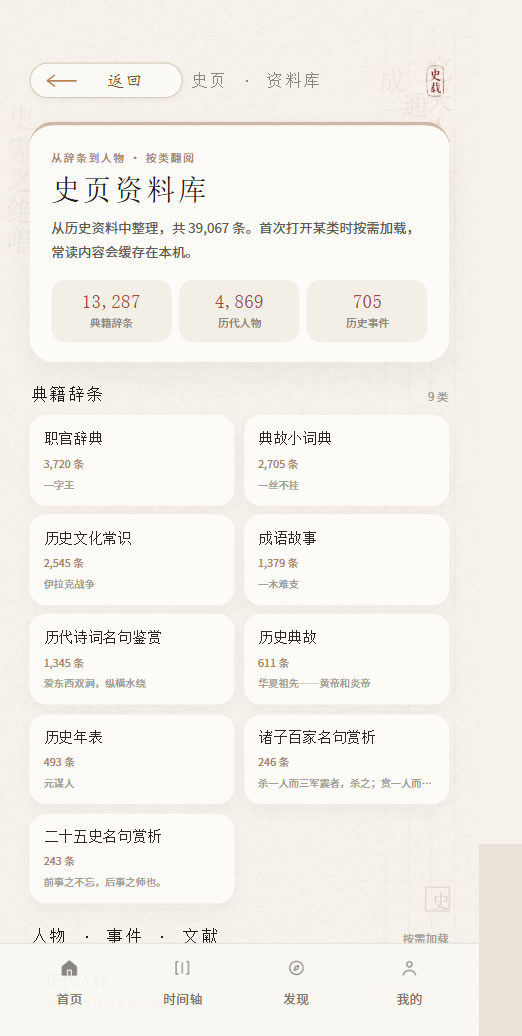
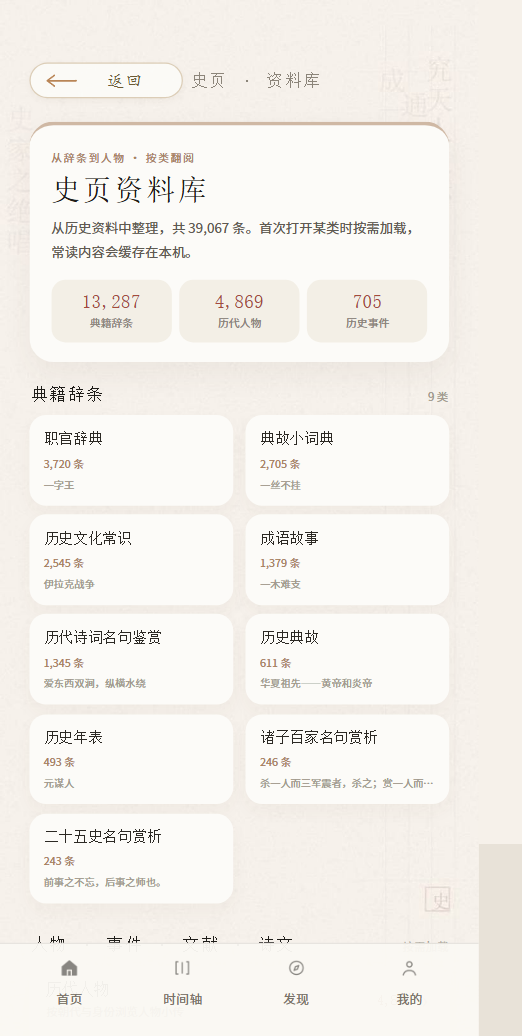
fix: 修复资料库首页分类单列与顶栏印章遮挡

diff --git a/ui/preview/_bundle.js b/ui/preview/_bundle.js
@@ -5242,8 +5242,8 @@ Page('project://pages/archive/archive.js', {
 });
 
 });
-__register('/pages/archive/archive.wxml', function (require, module, exports) { module.exports = "<view class=\"page fs-{{fontClass}}\">\n  <image class=\"paper-bg\" src=\"/assets/paper-bg.jpg\" mode=\"aspectFill\"></image>\n  <view class=\"screen\">\n    <view class=\"topbar\">\n      <view class=\"back\" bindtap=\"goBack\">\n        <image class=\"back-arrow\" src=\"/assets/back-arrow.png\" mode=\"widthFix\"></image>\n        <text class=\"back-label\">返回</text>\n      </view>\n      <text class=\"top-title\">史页 · 资料库</text>\n      <image class=\"top-seal\" src=\"/assets/seal.png\" mode=\"aspectFit\"></image>\n    </view>\n\n    <view class=\"hero\">\n      <text class=\"hero-kicker\">从辞条到人物 · 按类翻阅</text>\n      <text class=\"hero-title\">史页资料库</text>\n      <text class=\"hero-desc\">从历史资料中整理，共 {{stats.totalText}} 条。首次打开某类时按需加载，常读内容会缓存在本机。</text>\n      <view class=\"hero-stats\">\n        <view class=\"hstat\">\n          <text class=\"hnum\">{{stats.cardsText}}</text>\n          <text class=\"hlab\">典籍辞条</text>\n        </view>\n        <view class=\"hstat\">\n          <text class=\"hnum\">{{stats.figuresText}}</text>\n          <text class=\"hlab\">历代人物</text>\n        </view>\n        <view class=\"hstat\">\n          <text class=\"hnum\">{{stats.eventsText}}</text>\n          <text class=\"hlab\">历史事件</text>\n        </view>\n      </view>\n    </view>\n\n    <view class=\"section-head\">\n      <text class=\"section-title\">典籍辞条</text>\n      <text class=\"section-link\">{{stats.categories}} 类</text>\n    </view>\n    <view class=\"cat-grid\">\n      <view\n        wx:for=\"{{categories}}\"\n        wx:key=\"key\"\n        class=\"cat-card\"\n        data-key=\"{{item.key}}\"\n        data-name=\"{{item.name}}\"\n        bindtap=\"onCategory\"\n      >\n        <text class=\"cat-name\">{{item.name}}</text>\n        <text class=\"cat-count\">{{item.countText}} 条</text>\n        <text class=\"cat-sample\">{{item.sample}}</text>\n      </view>\n    </view>\n\n    <view class=\"section-head\">\n      <text class=\"section-title\">人物 · 事件 · 文献</text>\n      <text class=\"section-link\">按需加载</text>\n    </view>\n    <view class=\"sec-list\">\n      <view\n        wx:for=\"{{sections}}\"\n        wx:key=\"key\"\n        class=\"sec-row\"\n        data-key=\"{{item.key}}\"\n        data-name=\"{{item.name}}\"\n        bindtap=\"onSection\"\n      >\n        <view class=\"sec-main\">\n          <text class=\"sec-name\">{{item.name}}</text>\n          <text class=\"sec-desc\">{{item.desc}}</text>\n        </view>\n        <text class=\"sec-count\">{{item.countText}}</text>\n        <text class=\"sec-arrow\">›</text>\n      </view>\n    </view>\n\n    <view class=\"note\">资料为原型整理内容，仅作阅读与内容迁移；正式发布前请逐条核对史实与授权。</view>\n  </view>\n</view>\n"; });
-__register('/pages/archive/archive.wxss', function (require, module, exports) { module.exports = ".page {\n  position: relative;\n  min-height: 100vh;\n  overflow: hidden;\n  background: #F6F1EA;\n}\n\n.paper-bg {\n  position: fixed;\n  left: 0;\n  top: 0;\n  z-index: 0;\n  width: 100%;\n  height: 100%;\n  opacity: 0.96;\n}\n\n.screen {\n  position: relative;\n  z-index: 2;\n  padding: 0 46rpx 120rpx;\n}\n\n.topbar {\n  position: relative;\n  margin-top: 88rpx;\n  height: 76rpx;\n  display: flex;\n  align-items: center;\n  justify-content: space-between;\n}\n\n.back {\n  position: relative;\n  width: 240rpx;\n  height: 56rpx;\n  border-radius: 28rpx;\n  border: 1rpx solid rgba(176, 142, 96, 0.42);\n  background: rgba(252, 251, 248, 0.86);\n  box-shadow: 0 4rpx 12rpx rgba(90, 70, 50, 0.05);\n  overflow: hidden;\n}\n\n.back-arrow {\n  position: absolute;\n  left: 20rpx;\n  top: 50%;\n  width: 56rpx;\n  height: auto;\n  display: block;\n  transform: translateY(-50%);\n}\n\n.back-label {\n  position: absolute;\n  left: 76rpx;\n  right: 18rpx;\n  top: 0;\n  height: 56rpx;\n  line-height: 56rpx;\n  text-align: center;\n  font-family: \"KaiTi\", \"STKaiti\", \"Songti SC\", serif;\n  font-size: 26rpx;\n  letter-spacing: 0.1em;\n  text-indent: 0.1em;\n  color: #6B5A33;\n}\n\n.top-title {\n  position: absolute;\n  left: 54%;\n  transform: translateX(-50%);\n  font-family: \"Songti SC\", \"STSong\", \"SimSun\", serif;\n  font-size: calc(26rpx * var(--fs, 1));\n  letter-spacing: 0.08em;\n  color: #8C857A;\n}\n\n.top-seal {\n  width: 44rpx;\n  height: 50rpx;\n  display: block;\n}\n\n.hero {\n  position: relative;\n  margin-top: 26rpx;\n  padding: 38rpx 34rpx 32rpx;\n  border-radius: 38rpx;\n  background: #FCFBF8;\n  border-top: 6rpx solid rgba(169, 130, 94, 0.55);\n  box-shadow: 0 20rpx 46rpx rgba(90, 70, 50, 0.06);\n}\n\n.hero-kicker {\n  display: block;\n  font-size: calc(17rpx * var(--fs, 1));\n  letter-spacing: 0.14em;\n  color: #A9825E;\n}\n\n.hero-title {\n  display: block;\n  margin-top: 12rpx;\n  font-family: \"Songti SC\", \"STSong\", \"SimSun\", serif;\n  font-size: calc(46rpx * var(--fs, 1));\n  letter-spacing: 0.08em;\n  color: #1F1D19;\n}\n\n.hero-desc {\n  display: block;\n  margin-top: 16rpx;\n  font-size: calc(21rpx * var(--fs, 1));\n  line-height: 1.75;\n  color: #5F5A52;\n}\n\n.hero-stats {\n  display: flex;\n  gap: 12rpx;\n  margin-top: 26rpx;\n}\n\n.hstat {\n  flex: 1;\n  min-width: 0;\n  padding: 18rpx 12rpx;\n  border-radius: 22rpx;\n  background: #F3EFE6;\n  text-align: center;\n}\n\n.hnum {\n  display: block;\n  font-family: \"Songti SC\", \"STSong\", \"SimSun\", serif;\n  font-size: calc(30rpx * var(--fs, 1));\n  color: #A34A3E;\n}\n\n.hlab {\n  display: block;\n  margin-top: 4rpx;\n  font-size: calc(17rpx * var(--fs, 1));\n  color: #8C857A;\n}\n\n.section-head {\n  display: flex;\n  align-items: baseline;\n  justify-content: space-between;\n  margin: 36rpx 2rpx 16rpx;\n}\n\n.section-title {\n  font-family: \"Songti SC\", \"STSong\", \"SimSun\", serif;\n  font-size: calc(27rpx * var(--fs, 1));\n  letter-spacing: 0.08em;\n  color: #1F1D19;\n}\n\n.section-link {\n  font-size: calc(18rpx * var(--fs, 1));\n  color: #A39A8E;\n}\n\n.cat-grid {\n  display: flex;\n  flex-wrap: wrap;\n  gap: 14rpx;\n}\n\n.cat-card {\n  width: calc(50% - 7rpx);\n  min-height: 142rpx;\n  padding: 22rpx 22rpx 20rpx;\n  border-radius: 26rpx;\n  background: #FCFBF8;\n  box-shadow: 0 12rpx 26rpx rgba(90, 70, 50, 0.04);\n  overflow: hidden;\n}\n\n.cat-name {\n  display: block;\n  font-family: \"Songti SC\", \"STSong\", \"SimSun\", serif;\n  font-size: calc(24rpx * var(--fs, 1));\n  line-height: 1.35;\n  color: #2C2924;\n}\n\n.cat-count {\n  display: block;\n  margin-top: 8rpx;\n  font-size: calc(17rpx * var(--fs, 1));\n  color: #A9825E;\n}\n\n.cat-sample {\n  display: block;\n  margin-top: 8rpx;\n  font-size: calc(16rpx * var(--fs, 1));\n  line-height: 1.45;\n  color: #A39A8E;\n  white-space: nowrap;\n  overflow: hidden;\n  text-overflow: ellipsis;\n}\n\n.sec-list {\n  border-radius: 30rpx;\n  background: #FCFBF8;\n  box-shadow: 0 16rpx 34rpx rgba(90, 70, 50, 0.04);\n  overflow: hidden;\n}\n\n.sec-row {\n  display: flex;\n  align-items: center;\n  gap: 16rpx;\n  padding: 24rpx 26rpx;\n  border-bottom: 1rpx solid rgba(70, 58, 45, 0.07);\n}\n\n.sec-row:last-child {\n  border-bottom: none;\n}\n\n.sec-main {\n  flex: 1;\n  min-width: 0;\n}\n\n.sec-name {\n  display: block;\n  font-family: \"Songti SC\", \"STSong\", \"SimSun\", serif;\n  font-size: calc(25rpx * var(--fs, 1));\n  color: #1F1D19;\n}\n\n.sec-desc {\n  display: block;\n  margin-top: 5rpx;\n  font-size: calc(18rpx * var(--fs, 1));\n  line-height: 1.5;\n  color: #8C857A;\n}\n\n.sec-count {\n  font-family: \"Songti SC\", \"STSong\", \"SimSun\", serif;\n  font-size: calc(22rpx * var(--fs, 1));\n  color: #A9825E;\n}\n\n.sec-arrow {\n  font-family: \"Songti SC\", \"STSong\", \"SimSun\", serif;\n  font-size: 32rpx;\n  color: #C0B6A8;\n}\n\n.note {\n  margin-top: 32rpx;\n  padding: 22rpx 24rpx;\n  border-radius: 22rpx;\n  background: rgba(243, 239, 230, 0.7);\n  font-size: calc(17rpx * var(--fs, 1));\n  line-height: 1.7;\n  color: #A39A8E;\n}\n"; });
+__register('/pages/archive/archive.wxml', function (require, module, exports) { module.exports = "<view class=\"page fs-{{fontClass}}\">\n  <image class=\"paper-bg\" src=\"/assets/paper-bg.jpg\" mode=\"aspectFill\"></image>\n  <view class=\"screen\">\n    <view class=\"topbar\">\n      <view class=\"back\" bindtap=\"goBack\">\n        <image class=\"back-arrow\" src=\"/assets/back-arrow.png\" mode=\"widthFix\"></image>\n        <text class=\"back-label\">返回</text>\n      </view>\n      <text class=\"top-title\">史页 · 资料库</text>\n    </view>\n\n    <view class=\"hero\">\n      <text class=\"hero-kicker\">从辞条到人物 · 按类翻阅</text>\n      <text class=\"hero-title\">史页资料库</text>\n      <text class=\"hero-desc\">从历史资料中整理，共 {{stats.totalText}} 条。首次打开某类时按需加载，常读内容会缓存在本机。</text>\n      <view class=\"hero-stats\">\n        <view class=\"hstat\">\n          <text class=\"hnum\">{{stats.cardsText}}</text>\n          <text class=\"hlab\">典籍辞条</text>\n        </view>\n        <view class=\"hstat\">\n          <text class=\"hnum\">{{stats.figuresText}}</text>\n          <text class=\"hlab\">历代人物</text>\n        </view>\n        <view class=\"hstat\">\n          <text class=\"hnum\">{{stats.eventsText}}</text>\n          <text class=\"hlab\">历史事件</text>\n        </view>\n      </view>\n    </view>\n\n    <view class=\"section-head\">\n      <text class=\"section-title\">典籍辞条</text>\n      <text class=\"section-link\">{{stats.categories}} 类</text>\n    </view>\n    <view class=\"cat-grid\">\n      <view\n        wx:for=\"{{categories}}\"\n        wx:key=\"key\"\n        class=\"cat-card\"\n        data-key=\"{{item.key}}\"\n        data-name=\"{{item.name}}\"\n        bindtap=\"onCategory\"\n      >\n        <text class=\"cat-name\">{{item.name}}</text>\n        <text class=\"cat-count\">{{item.countText}} 条</text>\n        <text class=\"cat-sample\">{{item.sample}}</text>\n      </view>\n    </view>\n\n    <view class=\"section-head\">\n      <text class=\"section-title\">人物 · 事件 · 文献 · 诗文</text>\n      <text class=\"section-link\">按需加载</text>\n    </view>\n    <view class=\"sec-list\">\n      <view\n        wx:for=\"{{sections}}\"\n        wx:key=\"key\"\n        class=\"sec-row\"\n        data-key=\"{{item.key}}\"\n        data-name=\"{{item.name}}\"\n        bindtap=\"onSection\"\n      >\n        <view class=\"sec-main\">\n          <text class=\"sec-name\">{{item.name}}</text>\n          <text class=\"sec-desc\">{{item.desc}}</text>\n        </view>\n        <text class=\"sec-count\">{{item.countText}}</text>\n        <text class=\"sec-arrow\">›</text>\n      </view>\n    </view>\n\n    <view class=\"note\">资料为原型整理内容，仅作阅读与内容迁移；正式发布前请逐条核对史实与授权。</view>\n  </view>\n</view>\n"; });
+__register('/pages/archive/archive.wxss', function (require, module, exports) { module.exports = ".page {\n  position: relative;\n  min-height: 100vh;\n  overflow: hidden;\n  background: #F6F1EA;\n}\n\n.paper-bg {\n  position: fixed;\n  left: 0;\n  top: 0;\n  z-index: 0;\n  width: 100%;\n  height: 100%;\n  opacity: 0.96;\n}\n\n.screen {\n  position: relative;\n  z-index: 2;\n  padding: 0 46rpx 120rpx;\n}\n\n.topbar {\n  position: relative;\n  margin-top: 88rpx;\n  height: 76rpx;\n  display: flex;\n  align-items: center;\n  justify-content: space-between;\n}\n\n.back {\n  position: relative;\n  width: 240rpx;\n  height: 56rpx;\n  border-radius: 28rpx;\n  border: 1rpx solid rgba(176, 142, 96, 0.42);\n  background: rgba(252, 251, 248, 0.86);\n  box-shadow: 0 4rpx 12rpx rgba(90, 70, 50, 0.05);\n  overflow: hidden;\n}\n\n.back-arrow {\n  position: absolute;\n  left: 20rpx;\n  top: 50%;\n  width: 56rpx;\n  height: auto;\n  display: block;\n  transform: translateY(-50%);\n}\n\n.back-label {\n  position: absolute;\n  left: 76rpx;\n  right: 18rpx;\n  top: 0;\n  height: 56rpx;\n  line-height: 56rpx;\n  text-align: center;\n  font-family: \"KaiTi\", \"STKaiti\", \"Songti SC\", serif;\n  font-size: 26rpx;\n  letter-spacing: 0.1em;\n  text-indent: 0.1em;\n  color: #6B5A33;\n}\n\n.top-title {\n  position: absolute;\n  left: 54%;\n  transform: translateX(-50%);\n  font-family: \"Songti SC\", \"STSong\", \"SimSun\", serif;\n  font-size: calc(26rpx * var(--fs, 1));\n  letter-spacing: 0.08em;\n  color: #8C857A;\n}\n\n.hero {\n  position: relative;\n  margin-top: 26rpx;\n  padding: 38rpx 34rpx 32rpx;\n  border-radius: 38rpx;\n  background: #FCFBF8;\n  border-top: 6rpx solid rgba(169, 130, 94, 0.55);\n  box-shadow: 0 20rpx 46rpx rgba(90, 70, 50, 0.06);\n}\n\n.hero-kicker {\n  display: block;\n  font-size: calc(17rpx * var(--fs, 1));\n  letter-spacing: 0.14em;\n  color: #A9825E;\n}\n\n.hero-title {\n  display: block;\n  margin-top: 12rpx;\n  font-family: \"Songti SC\", \"STSong\", \"SimSun\", serif;\n  font-size: calc(46rpx * var(--fs, 1));\n  letter-spacing: 0.08em;\n  color: #1F1D19;\n}\n\n.hero-desc {\n  display: block;\n  margin-top: 16rpx;\n  font-size: calc(21rpx * var(--fs, 1));\n  line-height: 1.75;\n  color: #5F5A52;\n}\n\n.hero-stats {\n  display: flex;\n  gap: 12rpx;\n  margin-top: 26rpx;\n}\n\n.hstat {\n  flex: 1;\n  min-width: 0;\n  padding: 18rpx 12rpx;\n  border-radius: 22rpx;\n  background: #F3EFE6;\n  text-align: center;\n}\n\n.hnum {\n  display: block;\n  font-family: \"Songti SC\", \"STSong\", \"SimSun\", serif;\n  font-size: calc(30rpx * var(--fs, 1));\n  color: #A34A3E;\n}\n\n.hlab {\n  display: block;\n  margin-top: 4rpx;\n  font-size: calc(17rpx * var(--fs, 1));\n  color: #8C857A;\n}\n\n.section-head {\n  display: flex;\n  align-items: baseline;\n  justify-content: space-between;\n  margin: 36rpx 2rpx 16rpx;\n}\n\n.section-title {\n  font-family: \"Songti SC\", \"STSong\", \"SimSun\", serif;\n  font-size: calc(27rpx * var(--fs, 1));\n  letter-spacing: 0.08em;\n  color: #1F1D19;\n}\n\n.section-link {\n  font-size: calc(18rpx * var(--fs, 1));\n  color: #A39A8E;\n}\n\n.cat-grid {\n  display: flex;\n  flex-wrap: wrap;\n  justify-content: space-between;\n}\n\n.cat-card {\n  width: 48.5%;\n  min-height: 142rpx;\n  margin-bottom: 14rpx;\n  padding: 22rpx 22rpx 20rpx;\n  box-sizing: border-box;\n  border-radius: 26rpx;\n  background: #FCFBF8;\n  box-shadow: 0 12rpx 26rpx rgba(90, 70, 50, 0.04);\n  overflow: hidden;\n}\n\n.cat-card:active {\n  background: #F7F3EC;\n}\n\n.cat-name {\n  display: block;\n  font-family: \"Songti SC\", \"STSong\", \"SimSun\", serif;\n  font-size: calc(24rpx * var(--fs, 1));\n  line-height: 1.35;\n  color: #2C2924;\n}\n\n.cat-count {\n  display: block;\n  margin-top: 8rpx;\n  font-size: calc(17rpx * var(--fs, 1));\n  color: #A9825E;\n}\n\n.cat-sample {\n  display: block;\n  margin-top: 8rpx;\n  font-size: calc(16rpx * var(--fs, 1));\n  line-height: 1.45;\n  color: #A39A8E;\n  white-space: nowrap;\n  overflow: hidden;\n  text-overflow: ellipsis;\n}\n\n.sec-list {\n  border-radius: 30rpx;\n  background: #FCFBF8;\n  box-shadow: 0 16rpx 34rpx rgba(90, 70, 50, 0.04);\n  overflow: hidden;\n}\n\n.sec-row {\n  display: flex;\n  align-items: center;\n  gap: 16rpx;\n  padding: 24rpx 26rpx;\n  border-bottom: 1rpx solid rgba(70, 58, 45, 0.07);\n}\n\n.sec-row:last-child {\n  border-bottom: none;\n}\n\n.sec-main {\n  flex: 1;\n  min-width: 0;\n}\n\n.sec-name {\n  display: block;\n  font-family: \"Songti SC\", \"STSong\", \"SimSun\", serif;\n  font-size: calc(25rpx * var(--fs, 1));\n  color: #1F1D19;\n}\n\n.sec-desc {\n  display: block;\n  margin-top: 5rpx;\n  font-size: calc(18rpx * var(--fs, 1));\n  line-height: 1.5;\n  color: #8C857A;\n}\n\n.sec-count {\n  font-family: \"Songti SC\", \"STSong\", \"SimSun\", serif;\n  font-size: calc(22rpx * var(--fs, 1));\n  color: #A9825E;\n}\n\n.sec-arrow {\n  font-family: \"Songti SC\", \"STSong\", \"SimSun\", serif;\n  font-size: 32rpx;\n  color: #C0B6A8;\n}\n\n.note {\n  margin-top: 32rpx;\n  padding: 22rpx 24rpx;\n  border-radius: 22rpx;\n  background: rgba(243, 239, 230, 0.7);\n  font-size: calc(17rpx * var(--fs, 1));\n  line-height: 1.7;\n  color: #A39A8E;\n}\n"; });
 __register('/pages/archive-list/archive-list.js', function (require, module, exports) {
 const font = require('../../utils/font.js');
 const apk = require('../../utils/apkData.js');

diff --git a/docs/DEVELOPMENT_LOG.md b/docs/DEVELOPMENT_LOG.md
@@ -1438,3 +1438,24 @@ miniprogram/data/history.js
 - 诗文列表只做索引字段搜索，暂不支持全文检索；如需要，另建轻量全文索引或后端搜索。
 - 资料库仍未接入收藏/足迹；接入前需扩展 `utils/entries.js` 与「我的」页分组。
 - 数据仍需逐条史实/授权审校。
+
+---
+
+## 2026-10-23 · 第二十九轮：资料库首页 UI 修复
+
+**用户反馈**：`pages/archive/archive` 在真机/开发者工具中，9 个辞条分类变成单列窄卡，右侧大量留白；顶栏小印与微信原生胶囊重叠。
+
+**调整**
+
+- 辞条分类改为稳定的两列布局：去掉对 `flex gap` 的依赖，卡片使用 `width: 48.5%` + `box-sizing: border-box` + `justify-content: space-between`，避免旧基础库下 `calc(50% - 7rpx)` 与 padding 叠加导致换行。
+- 分类卡补充 `:active` 状态与底部间距，9 类在移动端恢复为 5 行两列。
+- 资料库顶栏移除右侧小印，避免与微信原生胶囊重叠；标题仅保留「返回 + 史页 · 资料库」。
+- 第二段标题由「人物 · 事件 · 文献」改为「人物 · 事件 · 文献 · 诗文」，与现有 13 个入口一致。
+- 重建预览 bundle 并重截 `21-archive.png`；另用滚动截图核对第二段 13 行入口布局。
+
+**校验**
+
+- `node tools/selftest.js`：**PASS 1553 / FAIL 0**。
+- `python tools/validate_miniprogram.py`：`OK: 13 pages, JSON/assets/WXML checks passed.`
+- `node tools/build_preview.js` / `node tools/preview_shots.js`：27 张截图成功；`21-archive.png` 已更新为两列布局。
+- 仍需在微信开发者工具/真机确认原生胶囊位置、底部安全区与分类卡在窄屏（320px）下的文字换行。
